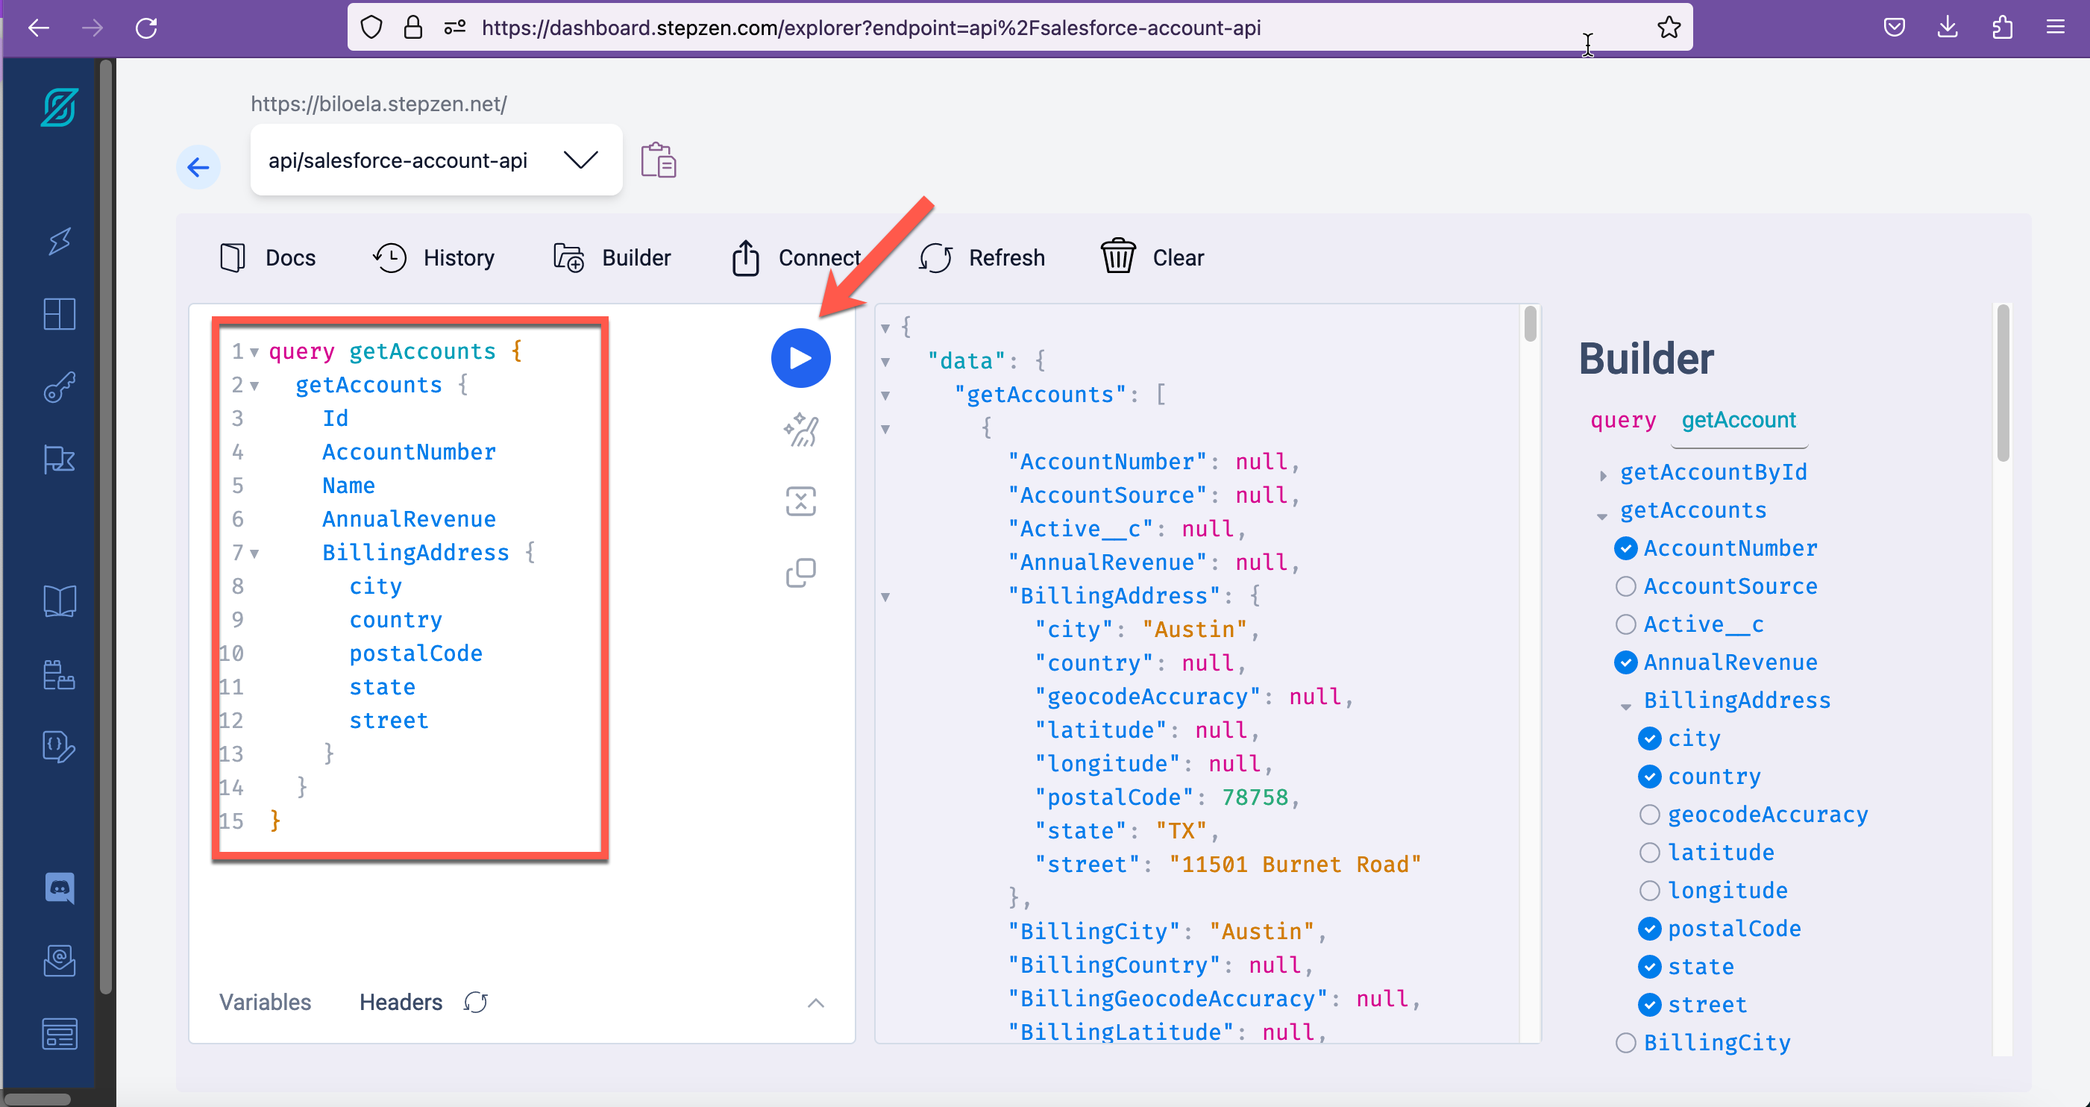
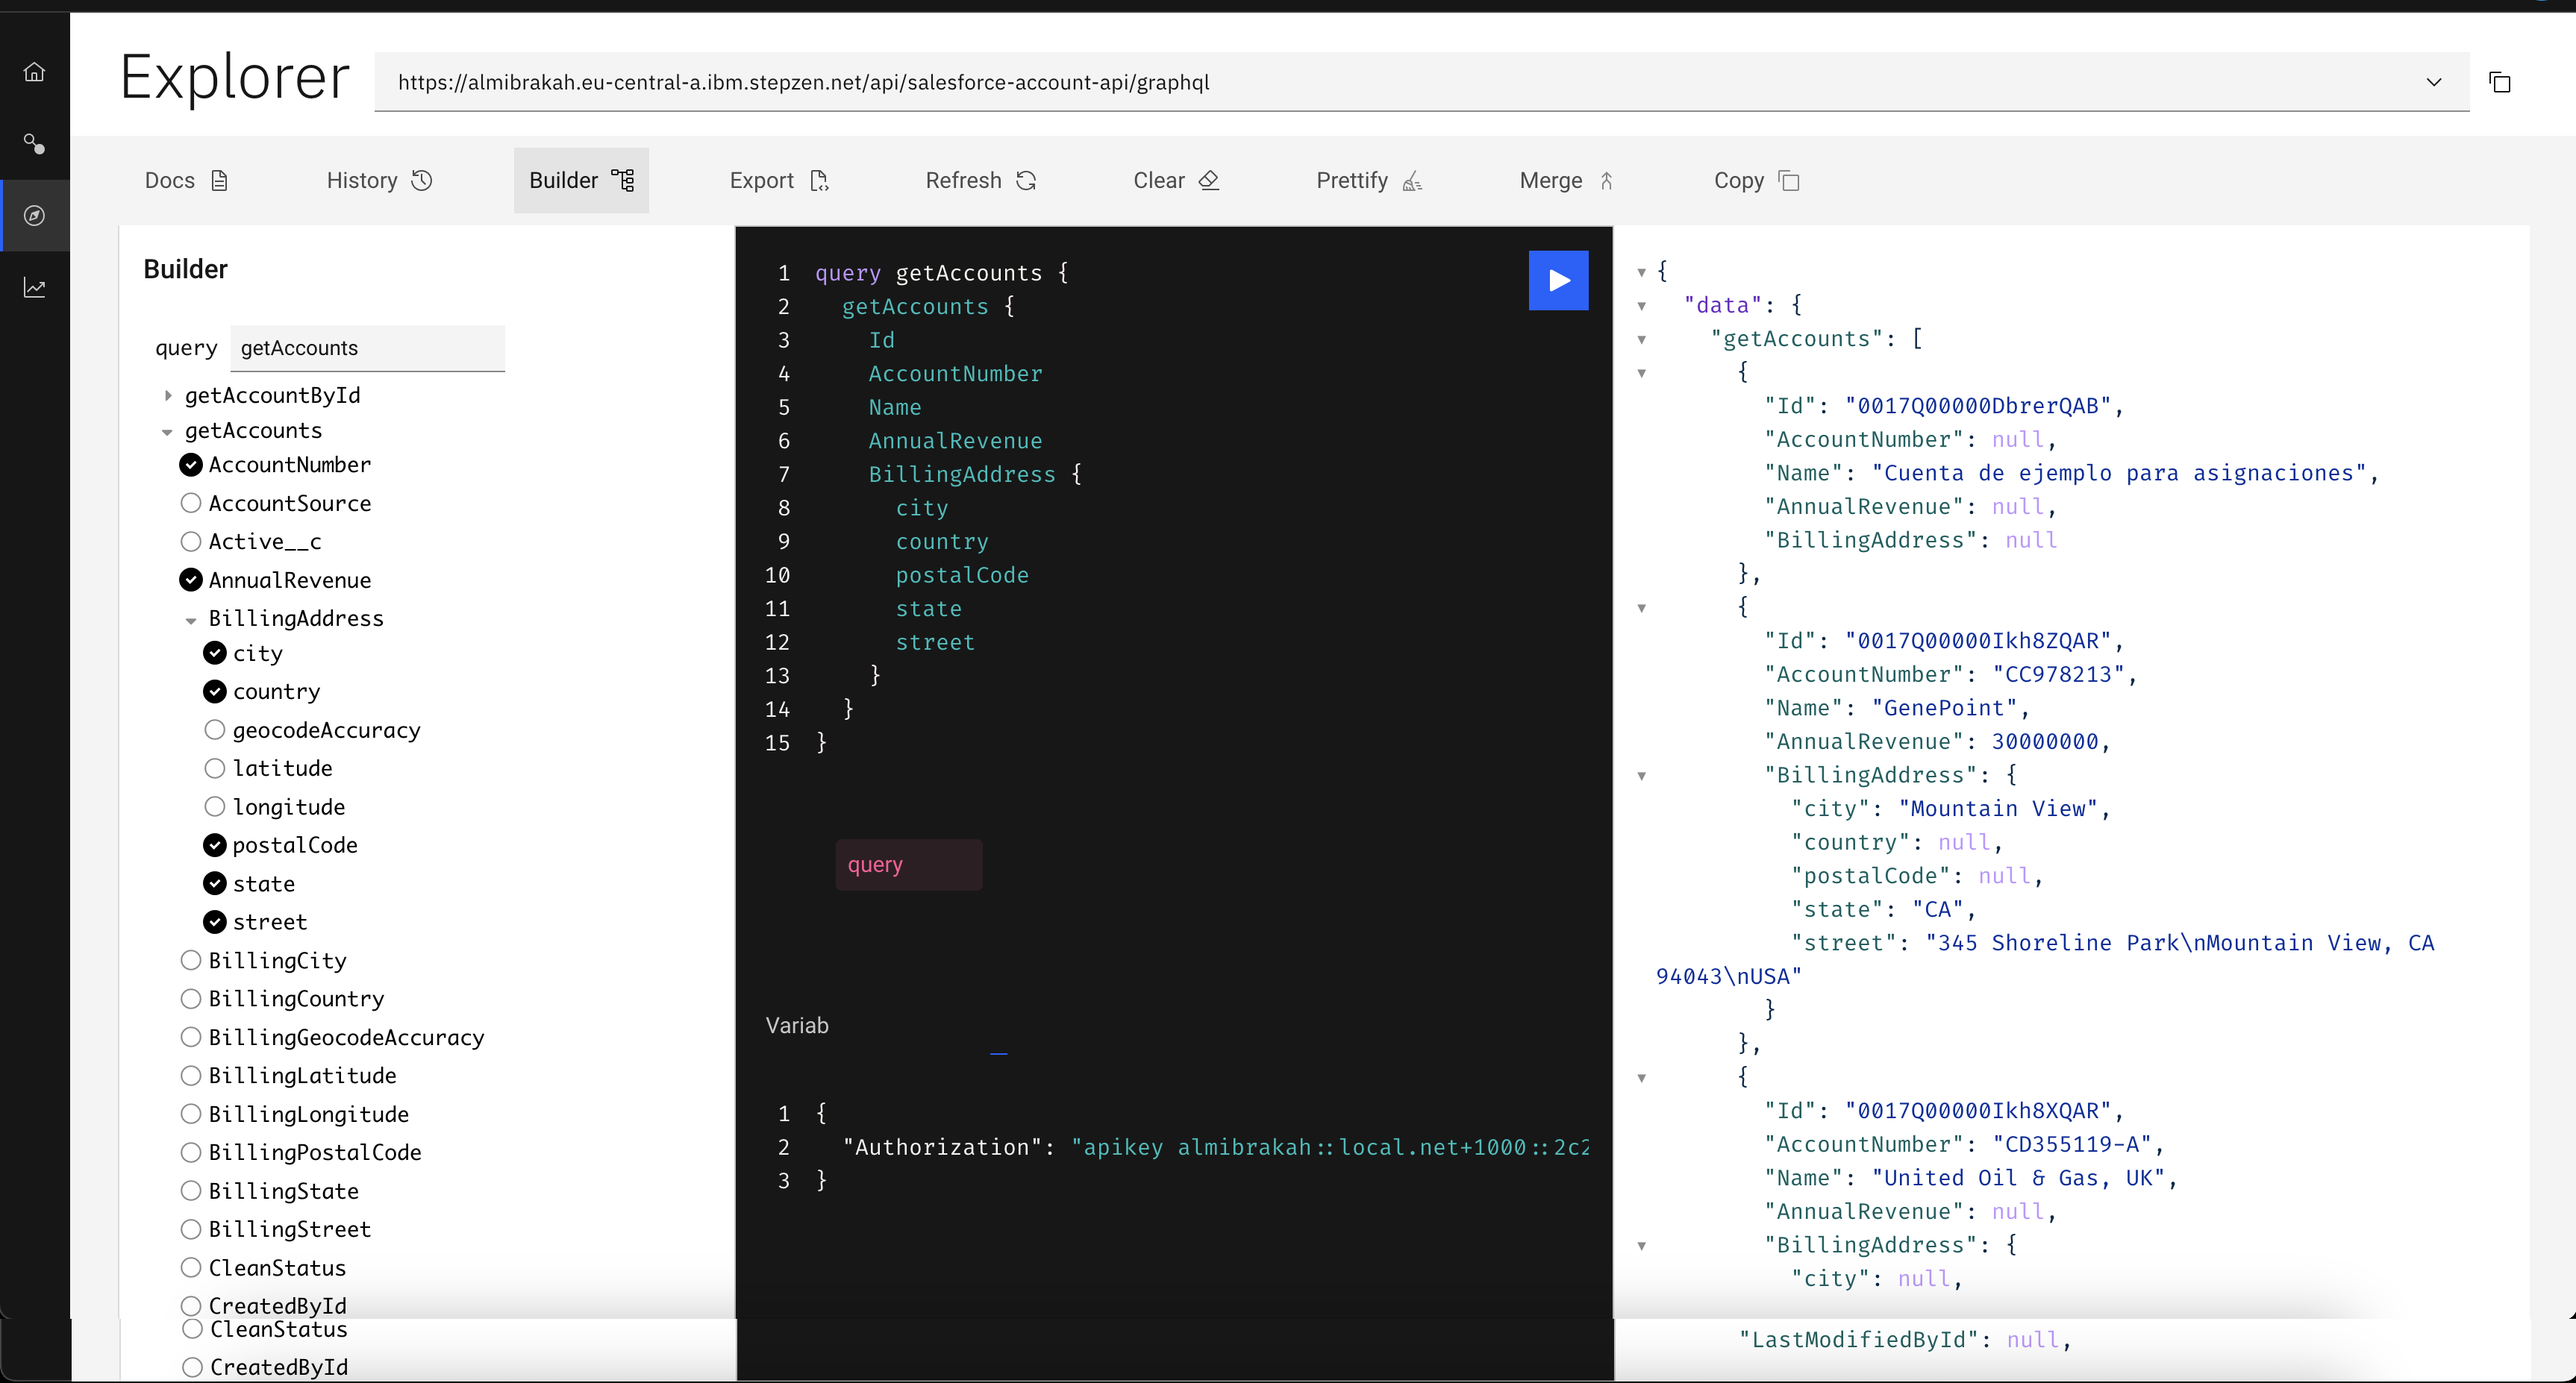
Update StepZen -> APIC Essentials lab

diff --git a/StepZen-GraphQL/ReadMe.md b/StepZen-GraphQL/ReadMe.md
@@ -1,6 +1,6 @@
 # IBM API Connect
 
-## Creating a StepZen GraphQL Proxy for a Salesforce Account REST API
+## Creating a API Connect Essentials GraphQL Proxy for a Salesforce Account REST API
 
 [Return to main APIC lab page](../README.md#lab-abstracts)
 
@@ -8,16 +8,16 @@
 
 # Table of Contents
 - [IBM API Connect](#ibm-api-connect)
-  - [Creating a StepZen GraphQL Proxy for a Salesforce Account REST API](#creating-a-stepzen-graphql-proxy-for-a-salesforce-account-rest-api)
+  - [Creating a API Connect Essentials GraphQL Proxy for a Salesforce Account REST API](#creating-a-stepzen-graphql-proxy-for-a-salesforce-account-rest-api)
 - [Table of Contents](#table-of-contents)
 - [1. Introduction ](#1-introduction-)
-- [2. StepZen ](#2-stepzen-)
-  - [2a. StepZen CLI ](#2a-stepzen-cli-)
-  - [2b. Import the Salesforce Account API Operations into the StepZen Configuration ](#2b-import-the-salesforce-account-api-operations-into-the-stepzen-configuration-)
+- [2. API Connect Essentials ](#2-stepzen-)
+  - [2a. API Connect Essentials CLI ](#2a-stepzen-cli-)
+  - [2b. Import the Salesforce Account API Operations into the API Connect Essentials Configuration ](#2b-import-the-salesforce-account-api-operations-into-the-stepzen-configuration-)
   - [2c. Modify index.graphql Files ](#2c-modify-indexgraphql-files-)
-- [3. Deploy to the StepZen Server ](#3-deploy-to-the-stepzen-server-)
-- [4. Working with the StepZen Dashboard ](#4-working-with-the-stepzen-dashboard-)
-  - [3a. StepZen GraphQL Query Testing ](#3a-stepzen-graphql-query-testing-)
+- [3. Deploy to the API Connect Essentials Server ](#3-deploy-to-the-stepzen-server-)
+- [4. Working with the API Connect Essentials Dashboard ](#4-working-with-the-stepzen-dashboard-)
+  - [3a. API Connect Essentials GraphQL Query Testing ](#3a-stepzen-graphql-query-testing-)
   - [4b. Capturing the salesforce-account-api GraphQL Server URL ](#4b-capturing-the-salesforce-account-api-graphql-server-url-)
 - [5. Creating the GraphQL API in API Connect ](#5-creating-the-graphql-api-in-api-connect-)
   - [5a. Testing the GraphQL API from the API Connect Manager ](#5a-testing-the-graphql-api-from-the-api-connect-manager-)
@@ -27,21 +27,21 @@
 
 # 1. Introduction <a name="introduction"></a>
 
-In this lab, we will leverage an existing REST API to create StepZen GraphQL Proxy and then expose the GraphQL Proxy through IBM API Connect. For the lab, we will be leveraging a Salesforce Account REST API deployed onto IBM App Connect. A Salesforce Account Object has 100+ fields. By using GraphQL, one can Query for fields that they are interested in thus reducing the response payload and network traffic.
+In this lab, we will leverage an existing REST API to create API Connect Essentials GraphQL Proxy and then expose the GraphQL Proxy through IBM API Connect. For the lab, we will be leveraging a Salesforce Account REST API deployed onto IBM App Connect. A Salesforce Account Object has 100+ fields. By using GraphQL, one can Query for fields that they are interested in thus reducing the response payload and network traffic.
 
 ![](images/design-diagram.png)
 
--	Create StepZen Configurations for both methods
+-	Create API Connect Essentials Configurations for both methods
 -	Capture REST API Endpoints for getAccounts, getAccount methods
--	Deploy to StepZen GraphQL Server
--	Test the GraphQL Queries in StepZen Portal
--	Extract StepZen GraphQL URL from StepZen Portal
+-	Deploy to API Connect Essentials GraphQL Server
+-	Test the GraphQL Queries in API Connect Essentials Portal
+-	Extract API Connect Essentials GraphQL URL from API Connect Essentials Portal
 -	Expose GraphQL URL into IBM API Connect
 -	Test GraphQL API from API Connect
 
-# 2. StepZen <a name="stepzen"></a>
+# 2. API Connect Essentials <a name="stepzen"></a>
 
-## 2a. StepZen CLI <a name="stepzen_cli"></a>
+## 2a. API Connect Essentials CLI <a name="stepzen_cli"></a>
 
 1\. If you have been using a browser outside of the VDI, navigate to the browser tab where the Cloud Pak for Integration VDI is running.
 
@@ -51,7 +51,7 @@ In this lab, we will leverage an existing REST API to create StepZen GraphQL Pro
 
 ![](images/cp4i-vdi-firefox.png)
 
-3\. Navigate to stepzen.com and click **Log In**.
+3\. Navigate to `https://eu-central-a.dashboard.ibm.stepzen.com` and click **Log In**.
 
 ![](images/stepzen-logon.png)
 
@@ -74,8 +74,9 @@ In this lab, we will leverage an existing REST API to create StepZen GraphQL Pro
 8\. In the terminal, log in with the Account that you copied in the step above.
 
 ```
-stepzen login -a <account>
+API Connect Essentials login -a <account>
 ```
+
 Make sure you replace **\<account\>** with the **Account** you copied in the previous step.
 
 ![](images/stepzen-terminal-login.png)
@@ -84,11 +85,11 @@ Make sure you replace **\<account\>** with the **Account** you copied in the pre
 
 ![](images/stepzen-terminal-admin.png)
 
-## 2b. Import the Salesforce Account API Operations into the StepZen Configuration <a name="stepzen_import"></a>
+## 2b. Import the Salesforce Account API Operations into the API Connect Essentials Configuration <a name="stepzen_import"></a>
 
 Next, you will be importing the getAccount and getAccounts operations into StepZen.
 
-1\. Using the terminal, create a directory called **stepzen-salesforce-account-api**.
+1\. Using the terminal, create a directory called `stepzen-salesforce-account-api`.
 
 ```
 mkdir stepzen-salesforce-account-api
@@ -96,7 +97,7 @@ mkdir stepzen-salesforce-account-api
 
 ![](images/stepzen-terminal-mkdir.png)
 
-2\. Change into the **stepzen-salesforce-account-api** directory.
+2\. Change into the `stepzen-salesforce-account-api` directory.
 
 ```
 cd stepzen-salesforce-account-api
@@ -104,7 +105,7 @@ cd stepzen-salesforce-account-api
 
 ![](images/stepzen-terminal-cd.png)
 
-3\. Copy the below 5 lines as-is, and paste in the command line. This will create config.yaml.
+3\. Copy the below 5 lines as-is, and paste in the command line. This will create a file named `config.yaml`.
 
 ```
 echo "access:
@@ -118,14 +119,14 @@ echo "access:
 4\. Next you will import the Get Salesforce Account by ID operation.  In the terminal, enter:
 
 ```
-stepzen import curl "<REPLACE-WITH-GETACCOUNT-URL>"
+API Connect Essentials import curl "<REPLACE-WITH-GETACCOUNT-URL>"
 ```
 
-Replace **\<REPLACE-WITH-GETACCOUNT-URL\>** with the value for the *getAccount* endpoint provided by the instructor within the parameters file . This is the REST endpoint of the existing Salesforce service.
+Replace `<REPLACE-WITH-GETACCOUNT-URL>` with the value for the *`getAccount`* endpoint provided by the instructor within the parameters file . This is the REST endpoint of the existing Salesforce service.
 
 ![](images/stepzen-import-getaccount.png)
 
-5\. Enter **api/salesforce-account-api** when prompted for what you want your endpoint to be called.
+5\. Enter ``api/salesforce-account-api`` when prompted for what you want your endpoint to be called.
 
 ![](images/stepzen-terminal-getaccount-endpoint.png)
 
@@ -134,10 +135,10 @@ Replace **\<REPLACE-WITH-GETACCOUNT-URL\>** with the value for the *getAccount* 
 6\. Next you will import the Get Salesforce Accounts operation.  In the terminal, enter:
 
 ```
-stepzen import curl "<REPLACE-WITH-GETACCOUNTS-URL>"
+API Connect Essentials import curl "<REPLACE-WITH-GETACCOUNTS-URL>"
 ```
 
-Replace **\<REPLACE-WITH-GETACCOUNTS-URL\>** with the value for the *getAccounts* endpoint provided by the instructor within the parameters file. This is the REST endpoint of the existing Salesforce service.
+Replace `<REPLACE-WITH-GETACCOUNTS-URL>` with the value for the *`getAccounts`* endpoint provided by the instructor within the parameters file. This is the REST endpoint of the existing Salesforce service.
 
 ![](images/stepzen-import-getaccounts.png)
 
@@ -159,7 +160,7 @@ gedit curl/index.graphql
 
 ![](images/vi-getaccount-last.png)
 
-3\.  Replace **myQuery** with **getAccountById**. 
+3\.  Replace **myQuery** with *`getAccountById`*. 
 
 ![](images/vi-getaccount.png)
 
@@ -175,11 +176,11 @@ gedit curl-01/index.graphql
 
 ![](images/vi-getaccounts-last.png)
 
-7\.  Replace **myQuery** with **getAccounts**. 
+7\.  Replace **myQuery** with *`getAccounts`*. 
 
 ![](images/vi-getaccounts-edit.png)
 
-8\. Next, we need to remove the **Attributes**, **BillingAddress**, and **ShipingAddress** types as they are duplicate segments under curl and curl-01.
+8\. Next, we need to remove the *`Attributes`*, *`BillingAddress`*, and *`ShipingAddress`* types as they are duplicate segments under `curl` and `curl-01`.
 
 ![](images/vi-getaccounts-first.png)
 
@@ -189,27 +190,27 @@ The file should now begin with **RootEntry**.
 
 9\. Save the file and close the Text Editor.
 
-# 3. Deploy to the StepZen Server <a name="deploy"></a>
+# 3. Deploy to the API Connect Essentials Server <a name="deploy"></a>
 
-In this section, you will deploy the salesforce-account-api to the StepZen server.
+In this section, you will deploy the salesforce-account-api to the API Connect Essentials server.
 
-1\. In the terminal, make sure that you are in the **stepzen-salesforce-account-api** directory and enter ``stepzen start``.
+1\. In the terminal, make sure that you are in the `stepzen-salesforce-account-api` directory and enter `API Connect Essentials start`.
 
 ![](images/stepzen-start.png)
 
-This will deploy the GraphQL Queries into the StepZen account.
+This will deploy the GraphQL Queries into the API Connect Essentials account.
 
 ![](images/stepzen-start-result.png)
 
-# 4. Working with the StepZen Dashboard <a name="stepzen_dashboard"></a>
+# 4. Working with the API Connect Essentials Dashboard <a name="stepzen_dashboard"></a>
 
-1\. Copy the URL (https://dashboard.stepzen.com/explorer?endpoint=api%2Fsalesforce-account-api) found under **Or explore it with GraphiQL at** and paste it into a new browser window.
+1\. Go to the URL (https://eu-central-a.dashboard.ibm.stepzen.com/endpoints) and click the three dots on the right of the endpoint. Click on **Open Explorer**.
 
 ![](images/stepzen-url.png)
 
-## 3a. StepZen GraphQL Query Testing <a name="stepzen_testing"></a>
+## 3a. API Connect Essentials GraphQL Query Testing <a name="stepzen_testing"></a>
 
-From the StepZen Dashboard, you will be testing both the queries.
+From the API Connect Essentials Dashboard, you will be testing both the queries.
 
 1\. You will first run the getAccounts query will all of the fields.  You should see the getAccounts query already reflected in the Explorer.
 
@@ -315,11 +316,9 @@ If you do not, you can cut and paste the query below.
 
 2\. To execute the query, click on the **Execute query** button.
 
-![](images/stepzen-getaccounts-execute.png)
-
-Results (**Note:**  The data in your results may be different):
-
 ![](images/stepzen-graphql-test-0.png)
+
+**Note:**  The data in your results may be different.
 
 3\. Next, you will run getAccounts with a smaller set of fields.  In the Explorer, click on **Clear**.
 
@@ -350,13 +349,13 @@ Results:
 
 ![](images/stepzen-graphql-test-1.png)
 
-5\. Capture one of the **Id** values from the output (e.g., 0014100000D0bbQAAR).  You will use this Id to test getAccountById query.
+5\. Capture one of the **Id** values from the output (e.g., `0017Q00000Ikh8SQAR`).  You will use this Id to test `getAccountById` query.
 
 ![](images/stepzen-getaccounts-id.png)
 
-6\. Next, you will run getAccountById with all of the fields.  In the Explorer, click on **Clear**.
+6\. Next, you will run `getAccountById` with all of the fields.  In the Explorer, click on **Clear**.
 
-![](images/stepzen-getaccounts-clear-2.png)
+![](images/stepzen-getaccounts-clear-1.png)
 
 7\. Copy and paste the query below into the Explorer.  Make sure that you change the **id** to the **Id** that you copied in Step #5 and click **Execute query**.
 
@@ -445,12 +444,11 @@ Results:
     }
 }
 ```
+Result:
+
 ![](images/stepzen-getaccount-execute.png)
 
-Result:
-![](images/stepzen-graphql-test-2.png)
-
-8\. Next, you will run getAccounts with a smaller set of fields.  In the Explorer, click on **Clear**.
+8\. Next, you will run `getAccounts` with a smaller set of fields.  In the Explorer, click on **Clear**.
 
 ![](images/stepzen-getaccount-clear-1.png)
 
@@ -473,8 +471,6 @@ Result:
   }
 }
 ```
-
-![](images/stepzen-getaccount-subset.png)
 
 Result:
 
@@ -526,7 +522,7 @@ Result:
 
 ## 4b. Capturing the salesforce-account-api GraphQL Server URL <a name="capture"></a>
 
-1\. Copy the StepZen GraphQL Server URL and save it to a text editor. You will use this URL in the following section to create GraphQL API Proxy in API Connect.
+1\. Copy the API Connect Essentials GraphQL Server URL and save it to a text editor. You will use this URL in the following section to create GraphQL API Proxy in API Connect.
 
 ![](images/stepzen-graphql-account-api-url.png)
 
@@ -556,7 +552,7 @@ Result:
 
 ![](images/apic-graphql-create.png)
 
-7\. For the **Title**, enter **stepzen-graphql-salesforce-account-api** and for the **GraphQL Server URL** paste the URL that you copied in the previous section.
+7\. For the **Title**, enter `stepzen-graphql-salesforce-account-api` and for the **GraphQL Server URL** paste the URL that you copied in the previous section.
 
 ![](images/apic-graphql-create-2.png)
 
@@ -608,7 +604,7 @@ In the API Designer, you have the ability to test the API.
 
 ![](images/apic-test.png)
 
-4\. From the drop down menu, select the **POST** operation that ends with **stepzen-graphql-salesforce-account-api/graphql**.
+4\. From the drop down menu, select the **POST** operation that ends with `stepzen-graphql-salesforce-account-api/graphql`.
 
 ![](images/apic-post.png)
 
@@ -644,7 +640,7 @@ Result:
 
 ![](images/apic-graphql-test-1.png)
 
-7\. Capture one of the **Id** values from the output (e.g., 0014100000D0bbQAAR).  You will use this Id to test getAccountById query.
+7\. Capture one of the **Id** values from the output (e.g., `0014100000D0bbQAAR`).  You will use this Id to test getAccountById query.
 
 8\. In **GraphiQL**, put you cursor in the request area and enter (**CTRL + A**) and hit the **delete** key.
 
@@ -717,13 +713,13 @@ Result:
 
 # 6. Summary <a name="summary"></a>
 
-Congratulations, you have completed the **Creating a StepZen GraphQL Proxy for a Salesforce Account REST API** lab.  Throughout the lab, you learned how to:
+Congratulations, you have completed the **Creating a API Connect Essentials GraphQL Proxy for a Salesforce Account REST API** lab.  Throughout the lab, you learned how to:
 
--	Create StepZen Configurations for both methods
+-	Create API Connect Essentials Configurations for both methods
 -	Capture REST API Endpoints for getAccounts, getAccount methods
--	Deploy to StepZen GraphQL Server
--	Test the GraphQL Queries in StepZen Portal
--	Extract StepZen GraphQL URL from StepZen Portal
+-	Deploy to API Connect Essentials GraphQL Server
+-	Test the GraphQL Queries in API Connect Essentials Portal
+-	Extract API Connect Essentials GraphQL URL from API Connect Essentials Portal
 -	Expose GraphQL URL into IBM API Connect
 -	Test GraphQL API from API Connect
 

diff --git a/README.md b/README.md
@@ -28,6 +28,6 @@ IBM API Connect has several out of the box personas. Some of these personas will
 
 | Subject | Description |
 |---------|-------------|
-| [StepZen GraphQL API](StepZen-GraphQL/ReadMe.md)       | **Creating a StepZen GraphQL API:** In this lab, we will leverage an existing REST API to create StepZen GraphQL Proxy and then expose the GraphQL Proxy through IBM API Connect. By using GraphQL, one can Query for fields that they are interested in thus reducing the response payload and network traffic. <br><br>**Prequisite:** None.<br><br>**Primary personas**:  Shavon (API Developer) and Andre (Application Developer)
+| [API Connect Essentials GraphQL API](StepZen-GraphQL/ReadMe.md)       | **Creating a API Connect Essentials GraphQL API:** In this lab, we will leverage an existing REST API to create API Connect Essentials GraphQL Proxy and then expose the GraphQL Proxy through IBM API Connect. By using GraphQL, one can Query for fields that they are interested in thus reducing the response payload and network traffic. <br><br>**Prequisite:** None.<br><br>**Primary personas**:  Shavon (API Developer) and Andre (Application Developer)
 |---------|-------------|
 | [Event Endpoint Experience](Event-EndPoint/index.md)       | **Integration with Async API's - Event Endpoint Experience:** Browse event definitions in EEM Catalog and generate AsyncAPI spec. Manage and publish an Async API in IBM API Connect Manager, Discover and subscribe Async API thru API Connect Dev Portal, and finally run varies Consumers to receive the events<br/><br>**Prequisite:** None.<br><br>**Primary personas**: Shavon (API Developer) and Andre (Application Developer)
